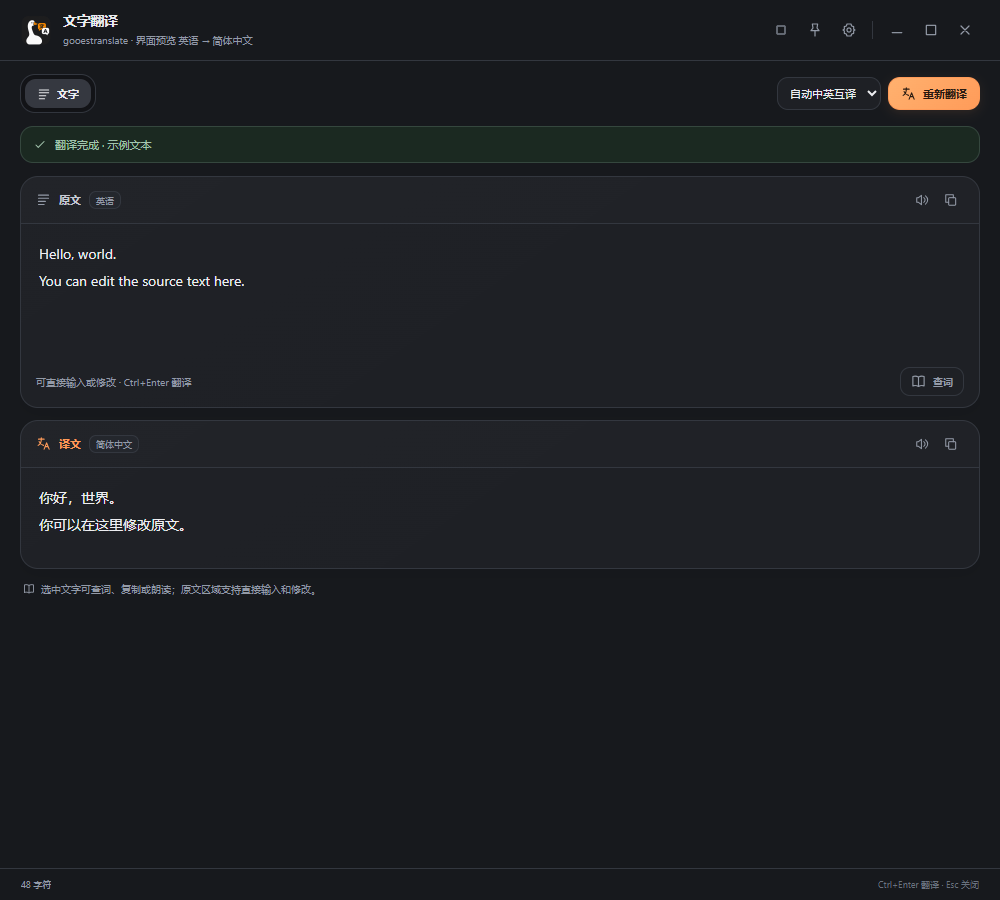
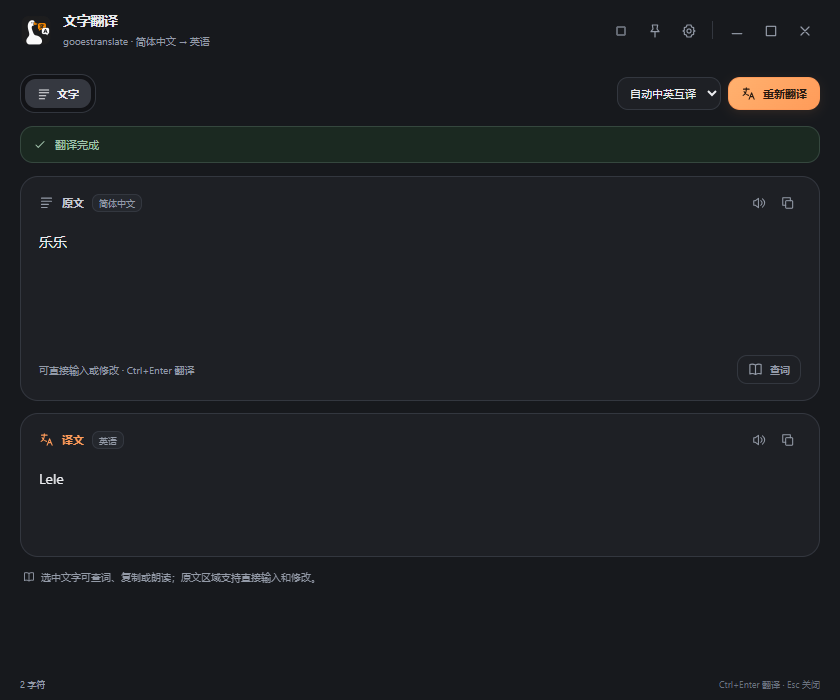
Remove split bars and unify rounded result surfaces

diff --git a/cmd/gooestranslate/ui/result.html b/cmd/gooestranslate/ui/result.html
@@ -1,10 +1,10 @@
 <!doctype html>
 <html lang="zh-CN"><head><meta charset="utf-8"><meta name="viewport" content="width=device-width,initial-scale=1"><title>gooestranslate · 识别与翻译</title>
 <style>
-:root{color-scheme:dark;--bg:#17191d;--panel:#1e2025;--card:#24272d;--line:#33373f;--text:#ecedf0;--muted:#939aa7;--accent:#ff9b59;--accent-soft:#3d2c21;--danger:#ff9696}*{box-sizing:border-box}body{margin:0;font:13px/1.6 "Segoe UI","Microsoft YaHei",sans-serif;color:var(--text);background:var(--bg);overflow:hidden}button,input,textarea{font:inherit}button{background:none;border:0;color:inherit;cursor:pointer}button:disabled{opacity:.38;cursor:default}button:focus-visible,input:focus-visible,textarea:focus-visible{outline:2px solid var(--accent);outline-offset:2px}svg{width:18px;height:18px;fill:none;stroke:currentColor;stroke-width:1.8;stroke-linecap:round;stroke-linejoin:round;vertical-align:middle}h1,h2,p{margin:0}.app{display:flex;flex-direction:column;height:100vh}.header{height:61px;display:flex;align-items:center;justify-content:space-between;gap:12px;padding:0 20px;border-bottom:1px solid var(--line);flex-shrink:0}.identity{display:flex;gap:11px;align-items:center;min-width:0}.mark{width:32px;height:32px;flex-shrink:0;display:block;background:transparent;box-shadow:none}.mark img{display:block;width:100%;height:100%;object-fit:contain;user-select:none}.title{font-size:14px;line-height:1.35;font-weight:650;letter-spacing:-.3px}.subtitle{font-size:10px;color:var(--muted);margin-top:2px}.window-actions{display:flex;gap:3px}.icon-btn{width:31px;height:31px;border-radius:7px;display:inline-flex;align-items:center;justify-content:center;color:var(--muted)}.icon-btn:hover{background:#ffffff08;color:var(--text)}.icon-btn.active{background:var(--accent-soft);color:var(--accent)}.icon-btn.close:hover{background:#703236;color:#fff}.icon-btn svg{width:16px;height:16px}.toolbar{padding:13px 20px;display:flex;align-items:center;justify-content:space-between;gap:10px;flex-shrink:0}.tabs{padding:3px;background:#111316;border:1px solid var(--line);display:flex;border-radius:8px;gap:2px}.tab{height:29px;border-radius:5px;padding:0 12px;display:flex;align-items:center;gap:6px;color:var(--muted);font-size:11px;font-weight:550}.tab.active{background:#333740;color:var(--text);box-shadow:0 2px 5px #0002}.tab svg{width:14px;height:14px}.toolbar-actions{display:flex;align-items:center;gap:7px}.btn{height:33px;padding:0 12px;display:inline-flex;justify-content:center;align-items:center;gap:7px;border:1px solid var(--line);border-radius:7px;font-size:11px;font-weight:600;white-space:nowrap}.btn:hover{background:#ffffff07;border-color:#555c68}.btn svg{width:15px;height:15px}.btn.primary{background:var(--accent);border-color:var(--accent);color:#281a10}.btn.primary:hover{background:#ffad76}.btn.small{height:29px;padding:0 10px;font-size:10px}.status{margin:0 20px 13px;min-height:37px;border:1px solid #35473e;background:#1b2921;padding:8px 12px;display:flex;align-items:center;gap:8px;border-radius:8px;color:#a3c5ae;font-size:11px;flex-shrink:0}.status svg{width:14px;height:14px;flex-shrink:0}.status.busy{border-color:#4f3d2c;background:#2d241b;color:#ddbc9e}.status.error{border-color:#634044;background:#301f22;color:#f6aaaa}.status-text{flex:1;min-width:0;overflow:hidden;text-overflow:ellipsis;white-space:nowrap}.spinner{width:13px;height:13px;display:none;border:2px solid #ffffff20;border-top-color:var(--accent);border-radius:50%;animation:spin .9s linear infinite}.busy .spinner{display:block}.busy .status-icon{display:none}@keyframes spin{to{transform:rotate(360deg)}}.workspace{min-height:0;flex:1;display:flex;margin:0 20px 16px;gap:12px;overflow:hidden}.result-main{flex:1;min-width:0;overflow:auto;scrollbar-width:thin;scrollbar-color:#454b57 transparent}.text-pane{display:grid;gap:12px}.text-card{border:1px solid var(--line);border-radius:11px;background:var(--panel);overflow:hidden}.card-top{display:flex;align-items:center;justify-content:space-between;padding:11px 15px;border-bottom:1px solid var(--line)}.card-caption{display:flex;align-items:center;gap:8px;font-size:11px;font-weight:600;color:#c6cad3}.card-caption svg{width:15px;height:15px;color:var(--muted)}.tag{font-size:9px;border:1px solid var(--line);background:var(--card);color:var(--muted);border-radius:5px;padding:1px 6px;font-weight:400}.card-actions{display:flex;gap:2px}.card-actions .icon-btn{height:24px;width:27px}.card-actions svg{height:14px;width:14px}.text-content{padding:17px 18px 20px;white-space:pre-wrap;overflow-wrap:anywhere;line-height:1.9;font-size:14px;min-height:100px;user-select:text}.text-content::selection{background:#945c39;color:#fff}.text-content.placeholder{color:#6f7683;font-size:12px;min-height:118px}.translated .card-caption{color:var(--accent)}.translated .card-caption svg{color:var(--accent)}.reading-note{font-size:10px;color:var(--muted);padding:0 3px;display:flex;align-items:center;gap:6px}.reading-note svg{width:12px;height:12px}.image-pane{height:100%;display:none;flex-direction:column;min-height:0;border:1px solid var(--line);border-radius:11px;overflow:hidden;background:#111316}.image-top{height:42px;flex-shrink:0;background:var(--panel);border-bottom:1px solid var(--line);display:flex;align-items:center;justify-content:space-between;padding:0 13px;gap:10px}.image-help{font-size:10px;color:var(--muted);display:flex;align-items:center;gap:6px}.image-help svg{width:13px;height:13px}.overlay-toggle{display:flex;align-items:center;gap:7px;font-size:10px;cursor:pointer;white-space:nowrap}.overlay-toggle input{width:13px;height:13px;accent-color:var(--accent);margin:0}.canvas-scroll{flex:1;min-height:0;overflow:auto;position:relative;background-color:#121417;background-image:linear-gradient(45deg,#ffffff02 25%,transparent 25%),linear-gradient(-45deg,#ffffff02 25%,transparent 25%),linear-gradient(45deg,transparent 75%,#ffffff02 75%),linear-gradient(-45deg,transparent 75%,#ffffff02 75%);background-size:20px 20px;background-position:0 0,0 10px,10px -10px,-10px 0;scrollbar-width:thin;scrollbar-color:#454b57 transparent}.canvas-wrap{min-width:100%;min-height:100%;padding:18px;display:flex;align-items:center;justify-content:center;width:max-content;height:max-content;position:relative}canvas{display:block;box-shadow:0 4px 28px #0005;border-radius:3px;cursor:crosshair;touch-action:none}.canvas-empty{font-size:12px;color:var(--muted);padding:40px;display:none}.image-bottom{background:var(--panel);border-top:1px solid var(--line);padding:6px 10px;display:flex;align-items:center;justify-content:space-between;font-size:10px;color:var(--muted);min-height:35px;gap:12px;flex-shrink:0}.zoom-controls{display:flex;align-items:center;gap:2px}.zoom-controls .icon-btn{width:23px;height:22px}.zoom-value{min-width:39px;text-align:center;font-variant-numeric:tabular-nums}.dictionary{display:none;flex-direction:column;width:238px;flex-shrink:0;border:1px solid var(--line);border-radius:11px;background:var(--panel);overflow:hidden}.dictionary.open{display:flex}.dictionary-top{padding:10px 13px;display:flex;justify-content:space-between;align-items:center;border-bottom:1px solid var(--line);font-size:11px;color:var(--muted)}.dictionary-top>span{display:flex;align-items:center;gap:7px}.dictionary-top svg{width:14px;height:14px}.dictionary-content{padding:18px 17px;overflow:auto;flex:1;scrollbar-width:thin;scrollbar-color:#454b57 transparent}.lookup-word{font-size:21px;line-height:1.35;font-weight:650;overflow-wrap:anywhere;letter-spacing:-.4px}.phonetic{font-size:11px;color:var(--muted);margin-top:7px;overflow-wrap:anywhere}.dictionary-actions{display:flex;gap:4px;margin-top:11px;margin-bottom:16px}.definition{font-size:12px;color:#c8cdd6;line-height:1.85;margin-bottom:12px;overflow-wrap:anywhere;white-space:pre-wrap;padding-left:11px;border-left:2px solid #444951}.dictionary-source{padding:10px 14px;border-top:1px solid var(--line);font-size:9px;color:var(--muted)}.dictionary-error{color:var(--danger);font-size:11px;margin:14px 0;white-space:pre-line}.dictionary-loading{color:var(--muted);font-size:11px;margin-top:20px}.selection-bar{position:fixed;display:none;align-items:center;gap:3px;border:1px solid #535966;border-radius:8px;padding:4px;background:#292d35;box-shadow:0 5px 20px #0005;z-index:20}.selection-bar .btn{border:0;height:27px;padding:0 10px;background:none;font-size:10px}.selection-bar .btn:hover{background:#ffffff08}.bottom-bar{height:32px;flex-shrink:0;border-top:1px solid var(--line);padding:0 21px;display:flex;justify-content:space-between;align-items:center;gap:12px;font-size:9px;color:var(--muted)}.bottom-bar span{overflow:hidden;text-overflow:ellipsis;white-space:nowrap}.bottom-shortcut{color:#69717e}.toast{position:fixed;left:50%;bottom:47px;max-width:85%;transform:translate(-50%,8px);opacity:0;pointer-events:none;background:#353a44;border:1px solid #565d6b;border-radius:8px;padding:10px 15px;font-size:11px;box-shadow:0 5px 24px #0005;z-index:80;transition:.15s}.toast.show{opacity:1;transform:translate(-50%,0)}.toast.error{color:#ffc2c2;border-color:#845055}.choose-bar{display:none;align-items:center;justify-content:center;gap:8px;padding:13px 0 2px}.choose-bar.show{display:flex}.app[data-view=image] .text-pane{display:none}.app[data-view=image] .image-pane{display:flex}.light{color-scheme:light;--bg:#f7f8fa;--panel:#fff;--card:#f1f3f6;--line:#e0e4e9;--text:#252b35;--muted:#7d8695;--accent:#e3813f;--accent-soft:#fff0e3}.light .tabs{background:#eef0f4}.light .tab.active{background:#fff}.light .card-caption,.light .definition{color:#555f70}.light .translated .card-caption{color:var(--accent)}.light .status{background:#eff8f2;border-color:#d8e7dc;color:#659475}.light .status.busy{background:#fff7ee;border-color:#efdfca;color:#a88355}.light .status.error{background:#fff1f1;border-color:#ebd1d1;color:#b97676}.light .image-pane,.light .canvas-scroll{background-color:#e9edf1}.light .selection-bar,.light .toast{background:#fff;color:var(--text);border-color:#d3d9e2}.light .icon-btn:hover,.light .btn:hover{background:#00000005}.light .text-content.placeholder{color:#99a1af}
+:root{color-scheme:dark;--bg:#17191d;--panel:#1e2025;--card:#24272d;--line:#33373f;--text:#ecedf0;--muted:#939aa7;--accent:#ff9b59;--accent-soft:#3d2c21;--danger:#ff9696}*{box-sizing:border-box}body{margin:0;font:13px/1.6 "Segoe UI","Microsoft YaHei",sans-serif;color:var(--text);background:var(--bg);overflow:hidden}button,input,textarea{font:inherit}button{background:none;border:0;color:inherit;cursor:pointer}button:disabled{opacity:.38;cursor:default}button:focus-visible,input:focus-visible,textarea:focus-visible{outline:2px solid var(--accent);outline-offset:2px}svg{width:18px;height:18px;fill:none;stroke:currentColor;stroke-width:1.8;stroke-linecap:round;stroke-linejoin:round;vertical-align:middle}h1,h2,p{margin:0}.app{display:flex;flex-direction:column;height:100vh}.header{height:61px;display:flex;align-items:center;justify-content:space-between;gap:12px;padding:0 20px;flex-shrink:0}.identity{display:flex;gap:11px;align-items:center;min-width:0}.mark{width:32px;height:32px;flex-shrink:0;display:block;background:transparent;box-shadow:none}.mark img{display:block;width:100%;height:100%;object-fit:contain;user-select:none}.title{font-size:14px;line-height:1.35;font-weight:650;letter-spacing:-.3px}.subtitle{font-size:10px;color:var(--muted);margin-top:2px}.window-actions{display:flex;gap:3px}.icon-btn{width:31px;height:31px;border-radius:7px;display:inline-flex;align-items:center;justify-content:center;color:var(--muted)}.icon-btn:hover{background:#ffffff08;color:var(--text)}.icon-btn.active{background:var(--accent-soft);color:var(--accent)}.icon-btn.close:hover{background:#703236;color:#fff}.icon-btn svg{width:16px;height:16px}.toolbar{padding:13px 20px;display:flex;align-items:center;justify-content:space-between;gap:10px;flex-shrink:0}.tabs{padding:3px;background:#111316;border:1px solid var(--line);display:flex;border-radius:8px;gap:2px}.tab{height:29px;border-radius:5px;padding:0 12px;display:flex;align-items:center;gap:6px;color:var(--muted);font-size:11px;font-weight:550}.tab.active{background:#333740;color:var(--text);box-shadow:0 2px 5px #0002}.tab svg{width:14px;height:14px}.toolbar-actions{display:flex;align-items:center;gap:7px}.btn{height:33px;padding:0 12px;display:inline-flex;justify-content:center;align-items:center;gap:7px;border:1px solid var(--line);border-radius:7px;font-size:11px;font-weight:600;white-space:nowrap}.btn:hover{background:#ffffff07;border-color:#555c68}.btn svg{width:15px;height:15px}.btn.primary{background:var(--accent);border-color:var(--accent);color:#281a10}.btn.primary:hover{background:#ffad76}.btn.small{height:29px;padding:0 10px;font-size:10px}.status{margin:0 20px 13px;min-height:37px;border:1px solid #35473e;background:#1b2921;padding:8px 12px;display:flex;align-items:center;gap:8px;border-radius:8px;color:#a3c5ae;font-size:11px;flex-shrink:0}.status svg{width:14px;height:14px;flex-shrink:0}.status.busy{border-color:#4f3d2c;background:#2d241b;color:#ddbc9e}.status.error{border-color:#634044;background:#301f22;color:#f6aaaa}.status-text{flex:1;min-width:0;overflow:hidden;text-overflow:ellipsis;white-space:nowrap}.spinner{width:13px;height:13px;display:none;border:2px solid #ffffff20;border-top-color:var(--accent);border-radius:50%;animation:spin .9s linear infinite}.busy .spinner{display:block}.busy .status-icon{display:none}@keyframes spin{to{transform:rotate(360deg)}}.workspace{min-height:0;flex:1;display:flex;margin:0 20px 16px;gap:12px;overflow:hidden}.result-main{flex:1;min-width:0;overflow:auto;scrollbar-width:thin;scrollbar-color:#454b57 transparent}.text-pane{display:grid;gap:12px}.text-card{border:1px solid var(--line);border-radius:11px;background:var(--panel);overflow:hidden}.card-top{display:flex;align-items:center;justify-content:space-between;padding:14px 18px 4px;background:transparent}.card-caption{display:flex;align-items:center;gap:8px;font-size:11px;font-weight:600;color:#c6cad3}.card-caption svg{width:15px;height:15px;color:var(--muted)}.tag{font-size:9px;border:1px solid var(--line);background:var(--card);color:var(--muted);border-radius:5px;padding:1px 6px;font-weight:400}.card-actions{display:flex;gap:2px}.card-actions .icon-btn{height:24px;width:27px}.card-actions svg{height:14px;width:14px}.text-content{padding:10px 18px 20px;white-space:pre-wrap;overflow-wrap:anywhere;line-height:1.9;font-size:14px;min-height:100px;user-select:text}.text-content::selection{background:#945c39;color:#fff}.text-content.placeholder{color:#6f7683;font-size:12px;min-height:118px}.translated .card-caption{color:var(--accent)}.translated .card-caption svg{color:var(--accent)}.reading-note{font-size:10px;color:var(--muted);padding:0 3px;display:flex;align-items:center;gap:6px}.reading-note svg{width:12px;height:12px}.image-pane{height:100%;display:none;flex-direction:column;min-height:0;border:1px solid var(--line);border-radius:11px;overflow:hidden;background:#121417}.image-top{height:42px;flex-shrink:0;background:transparent;display:flex;align-items:center;justify-content:space-between;padding:0 13px;gap:10px}.image-help{font-size:10px;color:var(--muted);display:flex;align-items:center;gap:6px}.image-help svg{width:13px;height:13px}.overlay-toggle{display:flex;align-items:center;gap:7px;font-size:10px;cursor:pointer;white-space:nowrap}.overlay-toggle input{width:13px;height:13px;accent-color:var(--accent);margin:0}.canvas-scroll{flex:1;min-height:0;overflow:auto;position:relative;background-color:#121417;scrollbar-width:thin;scrollbar-color:#454b57 transparent}.canvas-wrap{min-width:100%;min-height:100%;padding:18px;display:flex;align-items:center;justify-content:center;width:max-content;height:max-content;position:relative}canvas{display:block;box-shadow:0 4px 28px #0005;border-radius:3px;cursor:crosshair;touch-action:none}.canvas-empty{font-size:12px;color:var(--muted);padding:40px;display:none}.image-bottom{background:transparent;padding:6px 10px;display:flex;align-items:center;justify-content:space-between;font-size:10px;color:var(--muted);min-height:35px;gap:12px;flex-shrink:0}.zoom-controls{display:flex;align-items:center;gap:2px}.zoom-controls .icon-btn{width:23px;height:22px}.zoom-value{min-width:39px;text-align:center;font-variant-numeric:tabular-nums}.dictionary{display:none;flex-direction:column;width:238px;flex-shrink:0;border:1px solid var(--line);border-radius:11px;background:var(--panel);overflow:hidden}.dictionary.open{display:flex}.dictionary-top{padding:14px 17px 4px;display:flex;justify-content:space-between;align-items:center;background:transparent;font-size:11px;color:var(--muted)}.dictionary-top>span{display:flex;align-items:center;gap:7px}.dictionary-top svg{width:14px;height:14px}.dictionary-content{padding:10px 17px 18px;overflow:auto;flex:1;scrollbar-width:thin;scrollbar-color:#454b57 transparent}.lookup-word{font-size:21px;line-height:1.35;font-weight:650;overflow-wrap:anywhere;letter-spacing:-.4px}.phonetic{font-size:11px;color:var(--muted);margin-top:7px;overflow-wrap:anywhere}.dictionary-actions{display:flex;gap:4px;margin-top:11px;margin-bottom:16px}.definition{font-size:12px;color:#c8cdd6;line-height:1.85;margin-bottom:12px;overflow-wrap:anywhere;white-space:pre-wrap;padding-left:11px;border-left:2px solid #444951}.dictionary-source{padding:8px 17px 14px;font-size:9px;color:var(--muted)}.dictionary-error{color:var(--danger);font-size:11px;margin:14px 0;white-space:pre-line}.dictionary-loading{color:var(--muted);font-size:11px;margin-top:20px}.selection-bar{position:fixed;display:none;align-items:center;gap:3px;border:1px solid #535966;border-radius:8px;padding:4px;background:#292d35;box-shadow:0 5px 20px #0005;z-index:20}.selection-bar .btn{border:0;height:27px;padding:0 10px;background:none;font-size:10px}.selection-bar .btn:hover{background:#ffffff08}.bottom-bar{height:32px;flex-shrink:0;padding:0 20px;display:flex;justify-content:space-between;align-items:center;gap:12px;font-size:9px;color:var(--muted)}.bottom-bar span{overflow:hidden;text-overflow:ellipsis;white-space:nowrap}.bottom-shortcut{color:#69717e}.toast{position:fixed;left:50%;bottom:47px;max-width:85%;transform:translate(-50%,8px);opacity:0;pointer-events:none;background:#353a44;border:1px solid #565d6b;border-radius:8px;padding:10px 15px;font-size:11px;box-shadow:0 5px 24px #0005;z-index:80;transition:.15s}.toast.show{opacity:1;transform:translate(-50%,0)}.toast.error{color:#ffc2c2;border-color:#845055}.choose-bar{display:none;align-items:center;justify-content:center;gap:8px;padding:13px 0 2px}.choose-bar.show{display:flex}.app[data-view=image] .text-pane{display:none}.app[data-view=image] .image-pane{display:flex}.light{color-scheme:light;--bg:#f7f8fa;--panel:#fff;--card:#f1f3f6;--line:#e0e4e9;--text:#252b35;--muted:#7d8695;--accent:#e3813f;--accent-soft:#fff0e3}.light .tabs{background:#eef0f4}.light .tab.active{background:#fff}.light .card-caption,.light .definition{color:#555f70}.light .translated .card-caption{color:var(--accent)}.light .status{background:#eff8f2;border-color:#d8e7dc;color:#659475}.light .status.busy{background:#fff7ee;border-color:#efdfca;color:#a88355}.light .status.error{background:#fff1f1;border-color:#ebd1d1;color:#b97676}.light .image-pane,.light .canvas-scroll{background-color:#e9edf1}.light .selection-bar,.light .toast{background:#fff;color:var(--text);border-color:#d3d9e2}.light .icon-btn:hover,.light .btn:hover{background:#00000005}.light .text-content.placeholder{color:#99a1af}
 @media(max-width:780px){.header{padding:0 15px}.toolbar{padding:12px 15px}.status{margin:0 15px 12px}.workspace{margin:0 15px 12px}.dictionary{width:210px}.toolbar-actions .export-label{display:none}.toolbar-actions .btn{padding:0 10px}}@media(max-width:640px){.toolbar{gap:6px}.tab{padding:0 9px}.toolbar-actions{gap:5px}.btn{padding:0 10px}.workspace{gap:8px}.dictionary{position:absolute;right:15px;top:121px;bottom:47px;width:250px;z-index:10;box-shadow:0 12px 35px #0006}.image-help span{max-width:180px;white-space:nowrap;overflow:hidden;text-overflow:ellipsis}.subtitle{font-size:9px}.bottom-shortcut{display:none}}@media(max-width:430px){.toolbar-actions .btn span{display:none}.title{font-size:13px}.header{gap:5px}.identity{gap:8px}.toolbar-actions .btn{padding:0 9px}.tab{padding:0 10px}.tag{display:none}.status-text{font-size:10px}}
-select{font:inherit;color:var(--text);background:var(--panel);border:1px solid var(--line);border-radius:7px;height:33px;padding:0 8px;font-size:11px;max-width:137px}.vocabulary-status{font-size:10px;color:var(--muted);margin-top:9px;white-space:pre-wrap;overflow-wrap:anywhere}.vocabulary-status.error{color:var(--danger)}.vocabulary-status.ok{color:#99c7a6}.vocabulary-row{padding-top:13px;border-top:1px solid var(--line);margin-top:14px}.vocabulary-row .btn{width:100%;justify-content:center;min-width:0}.vocabulary-row .btn span{overflow:hidden;text-overflow:ellipsis;white-space:nowrap}.vocabulary-settings{font-size:10px;color:var(--muted);text-decoration:underline;text-underline-offset:3px;margin-top:8px;padding:0}.speech-state{max-width:43%;overflow:hidden;text-overflow:ellipsis;white-space:nowrap;color:var(--accent)}.speech-state.error{color:var(--danger)}.image-help{min-width:0}.image-help span{overflow:hidden;text-overflow:ellipsis;white-space:nowrap}.dictionary-actions{flex-wrap:wrap}@media(max-width:640px){.toolbar{flex-wrap:wrap}.toolbar-actions{margin-left:auto}select{max-width:128px}.dictionary{top:130px}}@media(max-width:430px){.toolbar-actions{width:100%;justify-content:flex-end}.toolbar-actions select{margin-right:auto}.speech-state{max-width:55%}}/* Rounded surfaces and brief feedback, without transforming OCR/image geometry. */
-:root{--surface-shadow:0 4px 18px #00000012;--floating-shadow:0 14px 38px #00000030;--ease:cubic-bezier(.2,.8,.2,1)}
+select{font:inherit;color:var(--text);background:var(--panel);border:1px solid var(--line);border-radius:7px;height:33px;padding:0 8px;font-size:11px;max-width:137px}.vocabulary-status{font-size:10px;color:var(--muted);margin-top:9px;white-space:pre-wrap;overflow-wrap:anywhere}.vocabulary-status.error{color:var(--danger)}.vocabulary-status.ok{color:#99c7a6}.vocabulary-row{padding-top:13px;margin-top:14px}.vocabulary-row .btn{width:100%;justify-content:center;min-width:0}.vocabulary-row .btn span{overflow:hidden;text-overflow:ellipsis;white-space:nowrap}.vocabulary-settings{font-size:10px;color:var(--muted);text-decoration:underline;text-underline-offset:3px;margin-top:8px;padding:0}.speech-state{max-width:43%;overflow:hidden;text-overflow:ellipsis;white-space:nowrap;color:var(--accent)}.speech-state.error{color:var(--danger)}.image-help{min-width:0}.image-help span{overflow:hidden;text-overflow:ellipsis;white-space:nowrap}.dictionary-actions{flex-wrap:wrap}@media(max-width:640px){.toolbar{flex-wrap:wrap}.toolbar-actions{margin-left:auto}select{max-width:128px}.dictionary{top:130px}}@media(max-width:430px){.toolbar-actions{width:100%;justify-content:flex-end}.toolbar-actions select{margin-right:auto}.speech-state{max-width:55%}}/* Each rounded panel is one uninterrupted surface; controls retain brief feedback. */
+:root{--floating-shadow:0 14px 38px #00000030;--ease:cubic-bezier(.2,.8,.2,1)}
 body{background:var(--bg)}
 .header{background:var(--bg)}
 .mark{border-radius:0;box-shadow:none}
@@ -21,13 +21,13 @@ body{background:var(--bg)}
 select{border-radius:11px;transition:background-color .2s var(--ease),border-color .2s var(--ease),box-shadow .2s var(--ease)}
 select:hover{border-color:#5a606b}select:focus-visible{outline:2px solid var(--accent);outline-offset:2px}
 .status{border-radius:13px;transition:background-color .22s var(--ease),border-color .22s var(--ease),color .22s var(--ease)}
-.text-card,.image-pane,.dictionary{border-radius:18px;box-shadow:var(--surface-shadow)}
-.text-card{background:linear-gradient(145deg,#ffffff02,transparent 65%),var(--panel);transition:border-color .22s var(--ease),box-shadow .22s var(--ease)}
-.text-card:hover{border-color:#444a55;box-shadow:0 5px 22px #0000001c}
-.card-top{background:#ffffff02}
+.text-card,.image-pane,.dictionary{border-radius:18px}
+.text-card{transition:border-color .22s var(--ease)}
+.text-card:hover{border-color:#444a55}
+
 .tag{border-radius:7px}
 .dictionary.open,.text-pane,.app[data-view=image] .image-pane{animation:surface-enter .24s var(--ease) both}
-.dictionary-top{background:#ffffff02}
+
 .dictionary-actions .btn:hover{border-color:var(--accent)}
 .selection-bar{border-radius:15px;padding:5px;background:#2b2e35;box-shadow:var(--floating-shadow);animation:surface-enter .18s var(--ease) both}
 .selection-bar .btn{border-radius:10px}
@@ -35,7 +35,7 @@ select:hover{border-color:#5a606b}select:focus-visible{outline:2px solid var(--a
 .vocabulary-settings{transition:color .2s var(--ease)}
 .vocabulary-settings:hover{color:var(--accent)}
 @keyframes surface-enter{from{opacity:0}to{opacity:1}}
-.light{--surface-shadow:0 4px 20px #26334908;--floating-shadow:0 14px 38px #2633491c}
+.light{--floating-shadow:0 14px 38px #2633491c}
 .light .header{background:var(--bg)}
 .light .mark{box-shadow:none}
 .light .tabs{background:#edf0f4;box-shadow:inset 0 1px 3px #26334908}
@@ -43,9 +43,9 @@ select:hover{border-color:#5a606b}select:focus-visible{outline:2px solid var(--a
 .light .tab:hover:not(.active){background:#00000004}
 .light .btn.primary{background:linear-gradient(135deg,#f2a164,var(--accent));border-color:#e78b48;box-shadow:0 3px 10px #e3813f18}
 .light .btn.primary:not(:disabled):hover{background:linear-gradient(135deg,#f6af77,#ed9456);box-shadow:0 4px 14px #e3813f26}
-.light .text-card{background:var(--panel)}
-.light .text-card:hover{border-color:#cbd2dc;box-shadow:0 5px 22px #2633490d}
-.light .card-top,.light .dictionary-top{background:#fafbfc}
+
+.light .text-card:hover{border-color:#cbd2dc}
+
 .light select:hover{border-color:#bac3d0}
 .light .selection-bar{background:#fff}
 @media(max-width:640px){.dictionary{box-shadow:var(--floating-shadow)}}
@@ -60,7 +60,7 @@ select:hover{border-color:#5a606b}select:focus-visible{outline:2px solid var(--a
 .source-editor{display:block;width:100%;border:0;border-radius:0;background:transparent;color:var(--text);resize:none;outline:none!important;min-height:118px;max-height:420px;overflow-y:auto;scrollbar-width:thin;scrollbar-color:#454b57 transparent}
 .source-editor:focus-visible{box-shadow:inset 3px 0 var(--accent)}
 .source-editor::placeholder{color:#7d8592;font-size:12px;opacity:1}
-.editor-tools{display:flex;align-items:center;justify-content:space-between;gap:10px;padding:0 15px 11px;font-size:10px;color:var(--muted)}
+.editor-tools{display:flex;align-items:center;justify-content:space-between;gap:10px;padding:0 18px 16px;font-size:10px;color:var(--muted)}
 .editor-tools span{min-width:0;overflow-wrap:anywhere}.editor-tools .btn{flex-shrink:0}
 .editor-tools .changed{color:var(--accent)}
 .light .source-editor::placeholder{color:#9099a7}
@@ -84,7 +84,7 @@ select:hover{border-color:#5a606b}select:focus-visible{outline:2px solid var(--a
 <symbol id="i-stop" viewBox="0 0 24 24"><rect x="6" y="6" width="12" height="12" rx="1"/></symbol>
 </defs></svg>
 <div class="app" id="app" data-view="text">
-<header class="header" id="windowHeader" title="拖动窗口，双击最大化或还原"><div class="identity"><div class="mark"><img src="app-icon.png" alt="" draggable="false"></div><div><h1 class="title" id="title">截图识别</h1><div class="subtitle">gooestranslate <span id="headerMeta"></span></div></div></div><div class="window-actions"><button class="icon-btn" id="stopSpeech" title="停止朗读" aria-label="停止朗读"><svg><use href="#i-stop"/></svg></button><button class="icon-btn" id="pin" title="窗口置顶" aria-label="窗口置顶"><svg><use href="#i-pin"/></svg></button><button class="icon-btn" id="settings" title="打开设置" aria-label="打开设置"><svg><use href="#i-settings"/></svg></button><span class="window-divider" aria-hidden="true"></span><button class="icon-btn" id="minimizeWindow" title="最小化" aria-label="最小化"><svg><use href="#i-minimize"/></svg></button><button class="icon-btn" id="maximizeWindow" title="最大化" aria-label="最大化" aria-pressed="false"><svg><use href="#i-maximize"/></svg></button><button class="icon-btn close" id="close" title="关闭窗口" aria-label="关闭窗口"><svg><use href="#i-close"/></svg></button></div></header>
+<header class="header" id="windowHeader"><div class="identity"><div class="mark"><img src="app-icon.png" alt="" draggable="false"></div><div><h1 class="title" id="title">截图识别</h1><div class="subtitle">gooestranslate <span id="headerMeta"></span></div></div></div><div class="window-actions"><button class="icon-btn" id="stopSpeech" title="停止朗读" aria-label="停止朗读"><svg><use href="#i-stop"/></svg></button><button class="icon-btn" id="pin" title="窗口置顶" aria-label="窗口置顶"><svg><use href="#i-pin"/></svg></button><button class="icon-btn" id="settings" title="打开设置" aria-label="打开设置"><svg><use href="#i-settings"/></svg></button><span class="window-divider" aria-hidden="true"></span><button class="icon-btn" id="minimizeWindow" title="最小化" aria-label="最小化"><svg><use href="#i-minimize"/></svg></button><button class="icon-btn" id="maximizeWindow" title="最大化" aria-label="最大化" aria-pressed="false"><svg><use href="#i-maximize"/></svg></button><button class="icon-btn close" id="close" title="关闭窗口" aria-label="关闭窗口"><svg><use href="#i-close"/></svg></button></div></header>
 <div class="toolbar"><div class="tabs" role="tablist" aria-label="结果视图"><button class="tab active" id="tabText" role="tab" aria-selected="true"><svg><use href="#i-text"/></svg>文字</button><button class="tab" id="tabImage" role="tab" aria-selected="false"><svg><use href="#i-image"/></svg>原图</button></div><div class="toolbar-actions"><select id="targetLanguage" aria-label="目标语言"><option value="auto">自动中英互译</option><option value="简体中文">简体中文</option><option value="繁体中文">繁体中文</option><option value="英语">英语</option><option value="日语">日语</option><option value="韩语">韩语</option></select><button class="btn" id="export"><svg><use href="#i-export"/></svg><span class="export-label">导出图片</span></button><button class="btn primary" id="translate"><svg><use href="#i-logo"/></svg><span id="translateLabel">翻译</span></button></div></div>
 <div class="status" id="status" role="status"><svg class="status-icon"><use id="statusIcon" href="#i-info"/></svg><div class="spinner"></div><span class="status-text" id="statusText">正在读取识别结果…</span><button class="link-btn" id="cancel" style="display:none;font-size:10px">取消</button></div>
 <div class="workspace"><div class="result-main" id="resultMain">

diff --git a/cmd/gooestranslate/ui/settings.html b/cmd/gooestranslate/ui/settings.html
@@ -205,6 +205,6 @@ document.addEventListener('keydown',e=>{if(recordingPending){if(e.key==='Escape'
 window.addEventListener('pagehide',()=>{if(importPreview&&transferBusy!=='applying')cancelConfigurationImport();});window.addEventListener('blur',cancelRecording);window.addEventListener('pagehide',cancelRecording);document.addEventListener('visibilitychange',()=>{if(document.hidden)cancelRecording();});matchMedia('(prefers-color-scheme: light)').addEventListener('change',()=>applyTheme(config.theme));window.setState=fill;window.openSettingsPane=setPane;window.openServiceEditor=openEditor;window.openSingletonServiceEditor=openSingletonEditor;window.showMessage=notify;window.cancelShortcutRecording=cancelRecording;
 $('chooserClose').onclick=()=>$('serviceChooser').close();$('dictionaryBack').onclick=()=>closeSingletonEditor('dictionary');$('vocabularyBack').onclick=()=>closeSingletonEditor('vocabulary');$('dictionaryTest').onclick=()=>testService('dictionary',config.dictionary);$('vocabularyTest').onclick=()=>testService('vocabulary',config.vocabulary);
 $('openTextTranslation').onclick=()=>{if(preview){notify('打开文本翻译窗口，可输入文字或单词。');return;}window.openTextTranslation().catch(e=>notify(e.message||'无法打开文本翻译。',true));};
-if(preview){const tr=preset('translation'),ocr=preset('ocr'),tts=preset('tts');fill({version:'0.3.10',voices:[{id:'sample-zh',name:'示例中文语音'}],config:{...defaults,translation_services:[tr],active_translation:tr.id,ocr_services:[ocr],active_ocr:ocr.id,tts_services:[tts],active_tts:tts.id}});}else window.getState().then(fill).catch(e=>{$('app').classList.remove('loading');$('saveMessage').textContent='读取设置失败';notify(e.message||'无法读取设置。',true);});
+if(preview){const tr=preset('translation'),ocr=preset('ocr'),tts=preset('tts');fill({version:'0.3.11',voices:[{id:'sample-zh',name:'示例中文语音'}],config:{...defaults,translation_services:[tr],active_translation:tr.id,ocr_services:[ocr],active_ocr:ocr.id,tts_services:[tts],active_tts:tts.id}});}else window.getState().then(fill).catch(e=>{$('app').classList.remove('loading');$('saveMessage').textContent='读取设置失败';notify(e.message||'无法读取设置。',true);});
 })();
 </script></body></html>

diff --git a/cmd/gooestranslate/main_windows.go b/cmd/gooestranslate/main_windows.go
@@ -24,7 +24,7 @@ import (
 	"unsafe"
 )
 
-const version = "0.3.10"
+const version = "0.3.11"
 const child = 0x40000000 | 0x10000000
 const taskMessage = 0x8001
 const trayMessage = 0x8002

diff --git a/README.md b/README.md
@@ -1,6 +1,6 @@
 # gooestranslate
 
-用 Go 实现的 Windows 桌面翻译工具。主窗口是设置中心，日常通过托盘或快捷键截图，在独立结果窗口完成文字识别、翻译、原图选字、查词、收藏和朗读。服务列表提供独立编辑和测试，显示当前使用项、配置缺失及最近测试结果。**v0.3.10** 统一结果窗口外沿、标题与页面底色，去掉额外描边；原文区域可输入、粘贴和修改，按 Ctrl+Enter 翻译，也可选词查询。翻译期间继续输入会保留草稿。程序、托盘和界面统一使用鹅图标。配置导入与导出可备份服务、提示词、请求体和快捷键，默认不导出密钥。划词翻译默认通过 `Ctrl+Alt+D` 触发。
+用 Go 实现的 Windows 桌面翻译工具。主窗口是设置中心，日常通过托盘或快捷键截图，在独立结果窗口完成文字识别、翻译、原图选字、查词、收藏和朗读。服务列表提供独立编辑和测试，显示当前使用项、配置缺失及最近测试结果。**v0.3.11** 去掉结果窗口标题、底栏与卡片标题的横向分隔线和背景分层，原文与译文分别使用一个完整圆角容器；原文区域可输入、粘贴和修改，按 Ctrl+Enter 翻译，也可选词查询。翻译期间继续输入会保留草稿。程序、托盘和界面统一使用鹅图标。配置导入与导出可备份服务、提示词、请求体和快捷键，默认不导出密钥。划词翻译默认通过 `Ctrl+Alt+D` 触发。
 
 截图工具使用 Win32 绘制，设置与结果界面使用内嵌 WebView2。运行程序需要 Microsoft Edge WebView2 Runtime，无需 Node、Python 或额外插件运行环境。
 
